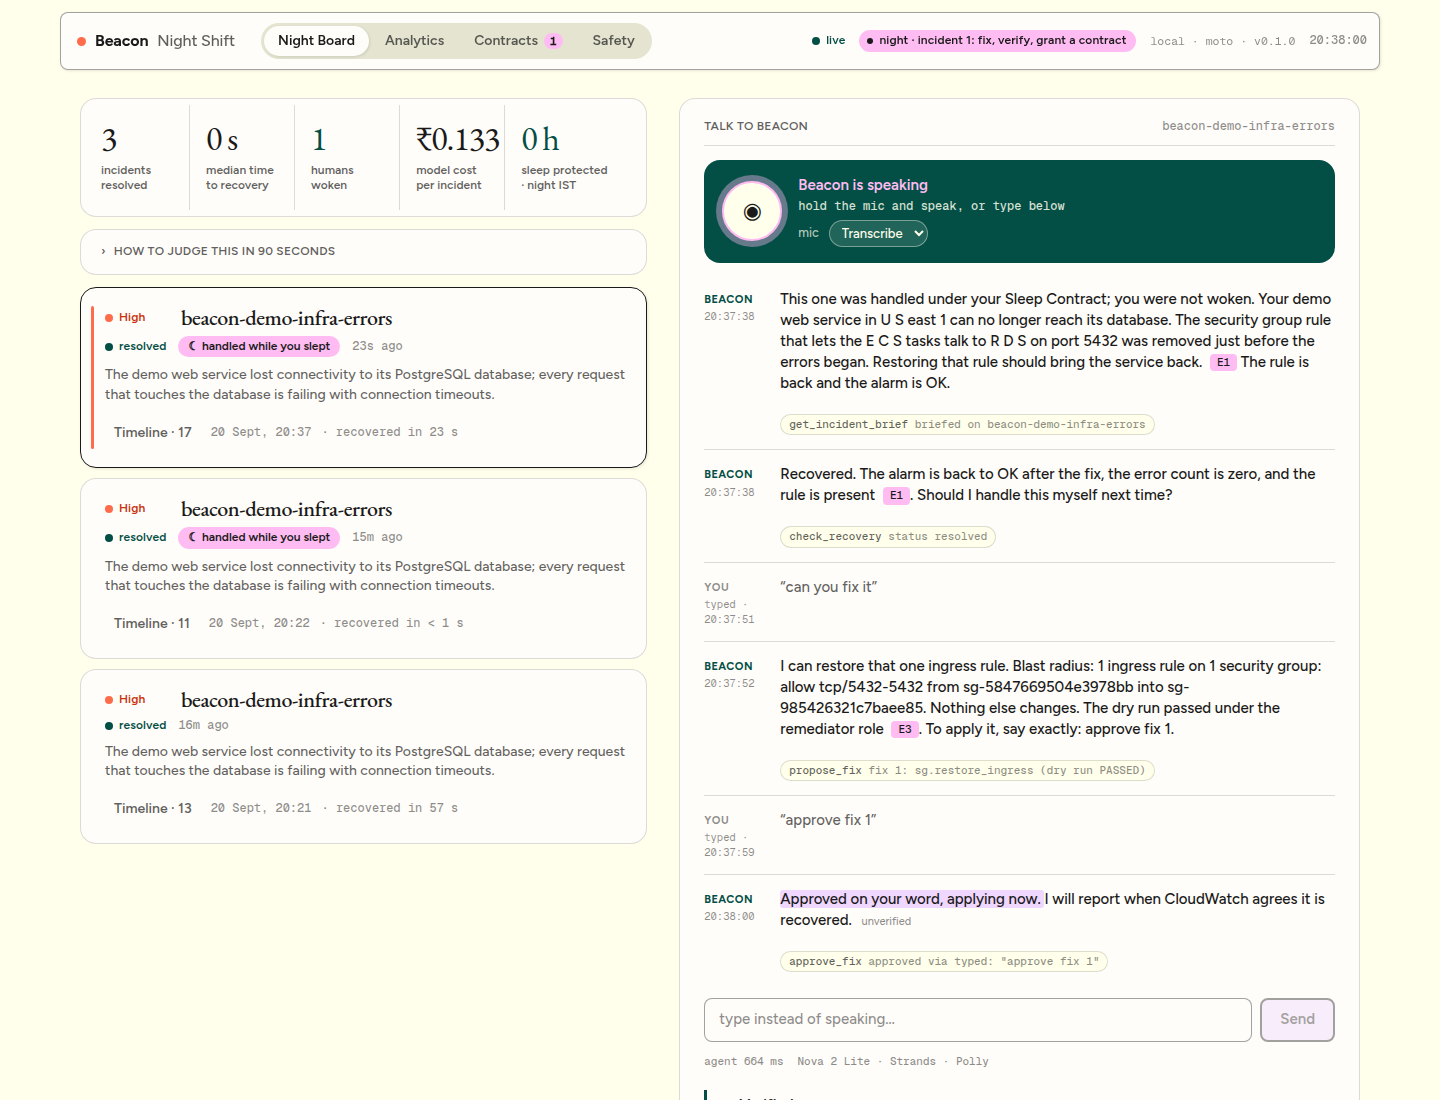
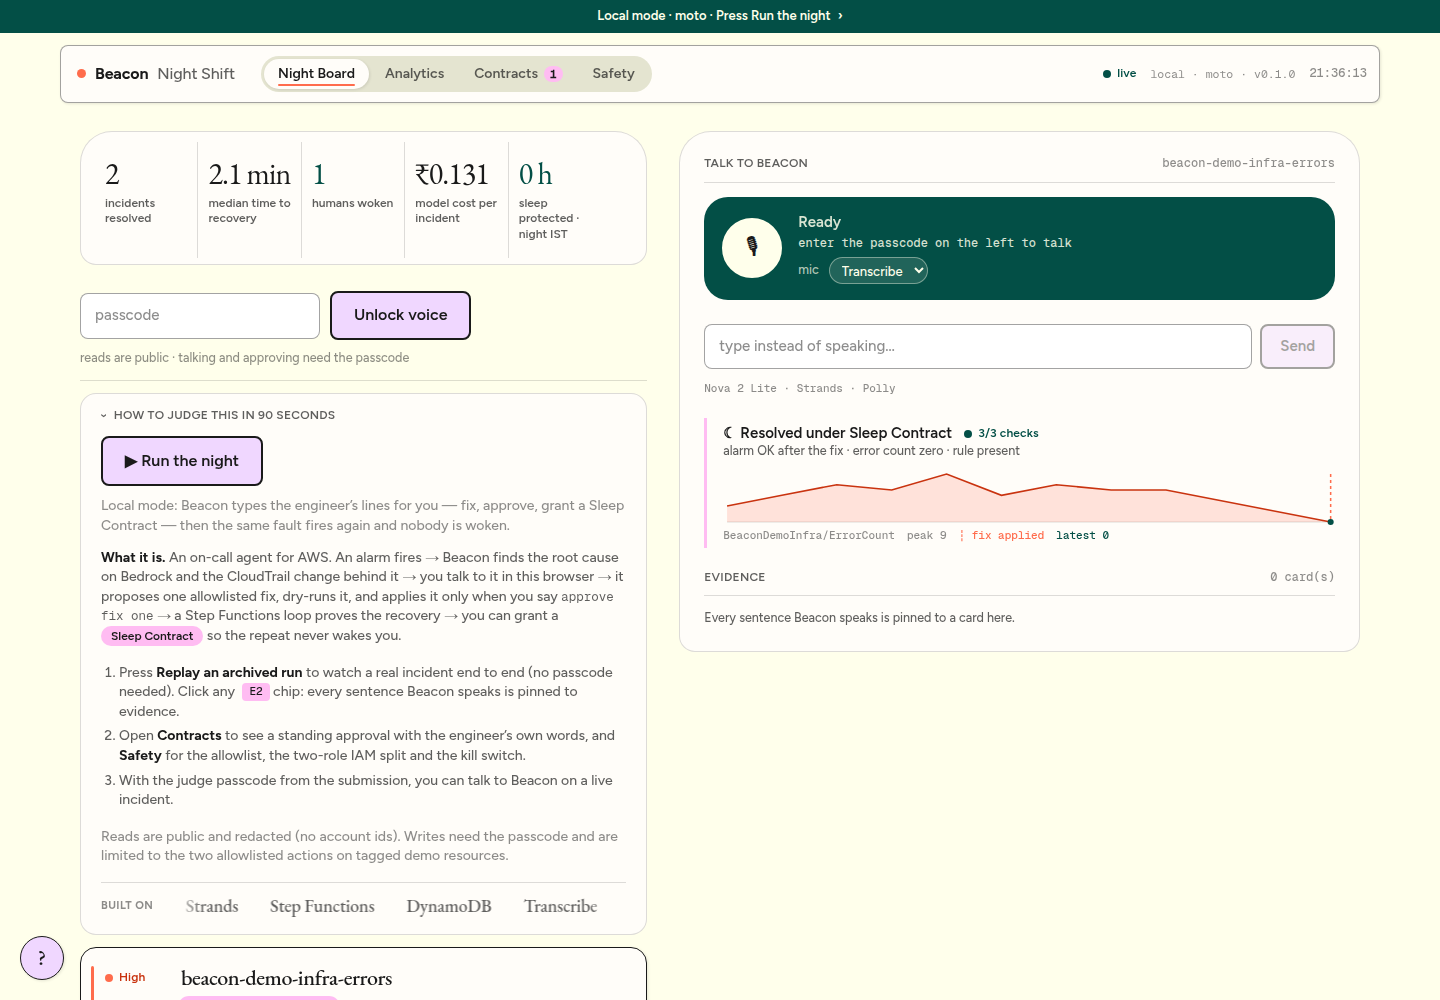
Repo: new screenshots in README, docs index, CHANGELOG, architecture diagram with the HTTPS proxy

diff --git a/README.md b/README.md
@@ -16,7 +16,15 @@ Beacon reads the logs on Amazon Bedrock, finds the CloudTrail change that caused
 
 Built solo in a weekend for the AWS *First Commit* hackathon. Everything below is live code with tests, not a slide.
 
-![The Night Board during a scripted night: brief, propose, approve, verified, contract offered](docs/assets/night-board.png)
+![Beacon Night Shift landing page](docs/assets/landing.png)
+
+<table><tr>
+<td><img src="docs/assets/night-board.png" alt="Night Board" /></td>
+<td><img src="docs/assets/analytics.png" alt="Analytics" /></td>
+</tr><tr>
+<td align="center"><sub>Night Board: the incident, the conversation, the evidence</sub></td>
+<td align="center"><sub>Analytics: recovery, sleep and cost across nights</sub></td>
+</tr></table>
 
 ## Try it in two minutes, no AWS account
 
@@ -71,7 +79,7 @@ The second incident under a contract runs the same loop with `source: contract` 
 | **AWS Lambda** + Function URLs | triage, voice turn, remediate, change ledger, dashboard | all five functions |
 | **Amazon DynamoDB** | incidents, approvals, contracts (TTL), change ledger, idempotency | `store.py`, `approvals.py`, `contracts.py` |
 | **Amazon SNS** | pages, "not woken" emails, resolved / escalated | `notifier.py`, `remediate.py` |
-| **Amazon S3 + CloudFront** | the Night Board console (HTTPS for the mic) | `console-template.yaml` |
+| **Amazon S3 + CloudFront** (or a Lambda Function URL proxy while a new account is under verification) | the Night Board console over HTTPS | `console-template.yaml`, `static_site.py` |
 | **Amazon CloudWatch** (alarms, metrics, logs) | the trigger and the verification oracle | `events.py`, `remediation/verify.py` |
 | **Amazon EC2 / ECS / RDS** | the patient: a real Fargate app behind a security group | `demo/` |
 | **AWS IAM** | two roles, one direction (see Safety) | all three templates |

diff --git a/CHANGELOG.md b/CHANGELOG.md
@@ -1,0 +1,16 @@
+# Changelog
+
+## v0.2.0 — 20 Sep 2026 (First Commit submission)
+
+Added
+- Triage on Bedrock: Cordon + Nova 2 Multimodal Embeddings log reduction, Nova 2 Lite root-cause analysis, golden-snapshot security-group drift check, CloudTrail → EventBridge change ledger.
+- Verified remediation loop on Step Functions (DryRun → RequireApproval → Execute → Wait → Verify ×6 → Resolve/Escalate) with a registry of two allowlisted actions, EC2 DryRun under the write-only remediator role, exactly-once execution and three-part verification.
+- Approvals checked against the raw transcript; Sleep Contracts (read-back, exact grant phrase, resource scope, TTL, use counter); the second incident handled with nobody woken.
+- Strands voice agent on Nova 2 Lite with six tools; Transcribe streaming (STS-scoped) and Polly with speech marks; litellm fallback engine.
+- Console: Night Board, Talk, Analytics (`GET /analytics`), Contracts, Safety (Controls/Proof), landing page; `?night=1` scripted night; replay mode.
+- Three CloudFormation stacks + demo workload (Fargate + RDS), git-SHA image tags with a deploy guard, `make local` against moto, 250 tests including template safety/ops tests.
+- Production hardening: fail-closed passcode, bounded AWS clients, named JSON log groups, error/escalation alarms, PITR, CSP and security headers, Secrets Manager for the demo DB password, pinned image dependencies.
+- New-account fixes: conditional reserved concurrency, Function URL `InvokeFunction` permission, S3-website mode and an HTTPS Lambda-URL proxy while CloudFront is unavailable.
+
+Known limitations
+- Live Bedrock calls and CloudFront depend on AWS clearing the account's new-account verification.

diff --git a/docs/README.md b/docs/README.md
@@ -1,0 +1,15 @@
+# Documentation index
+
+| Read this when | File |
+|---|---|
+| You want the whole picture in five minutes | [`../README.md`](../README.md) |
+| You want the diagrams (system, one incident, the verify loop, trust boundaries) | [`architecture.md`](architecture.md) |
+| You are deciding whether it is safe to give it write access | [`safety.md`](safety.md) — every control and the test that proves it |
+| You are deploying it to an account | [`human-runbook.md`](human-runbook.md) (§0–§3 with expected outputs), `make help` |
+| Something surprised us and you want to know why the code is the way it is | [`LEARNINGS.md`](LEARNINGS.md) |
+| You are recording or judging the demo | [`demo-script.md`](demo-script.md), [`submission.md`](submission.md) |
+| You want the story behind the design | [`blog.md`](blog.md) (published on AWS Builder Center) |
+| Where the build stands, what is proven and what is not | [`STATUS.md`](STATUS.md), [`TASKS.md`](TASKS.md) |
+| Open decisions for the maintainer | [`QUESTIONS.md`](QUESTIONS.md) |
+| The original plans (kept for the record) | [`PLAN.md`](PLAN.md), [`PLAN-v2.md`](PLAN-v2.md) |
+| The next hackathon (AssemblyAI Voice Agent) | branch `assemblyai`: `assemblyai.md`, `assemblyai-deck.md` |

diff --git a/docs/architecture.md b/docs/architecture.md
@@ -30,7 +30,7 @@ flowchart LR
   end
 
   subgraph console["Console stack (beacon-console)"]
-    S3["S3 (+ CloudFront)<br/>Night Board"] --> YOU(("you, 3 AM"))
+    S3["S3 bucket<br/>Night Board build"] --> EDGE["CloudFront, or the<br/>static_site Lambda URL (HTTPS)"] --> YOU(("you, 3 AM"))
     YOU --> VOICE["Lambda · voice-turn<br/>Strands on Nova 2 Lite"]
     VOICE --> BR
     VOICE -->|dry run via| REMED
